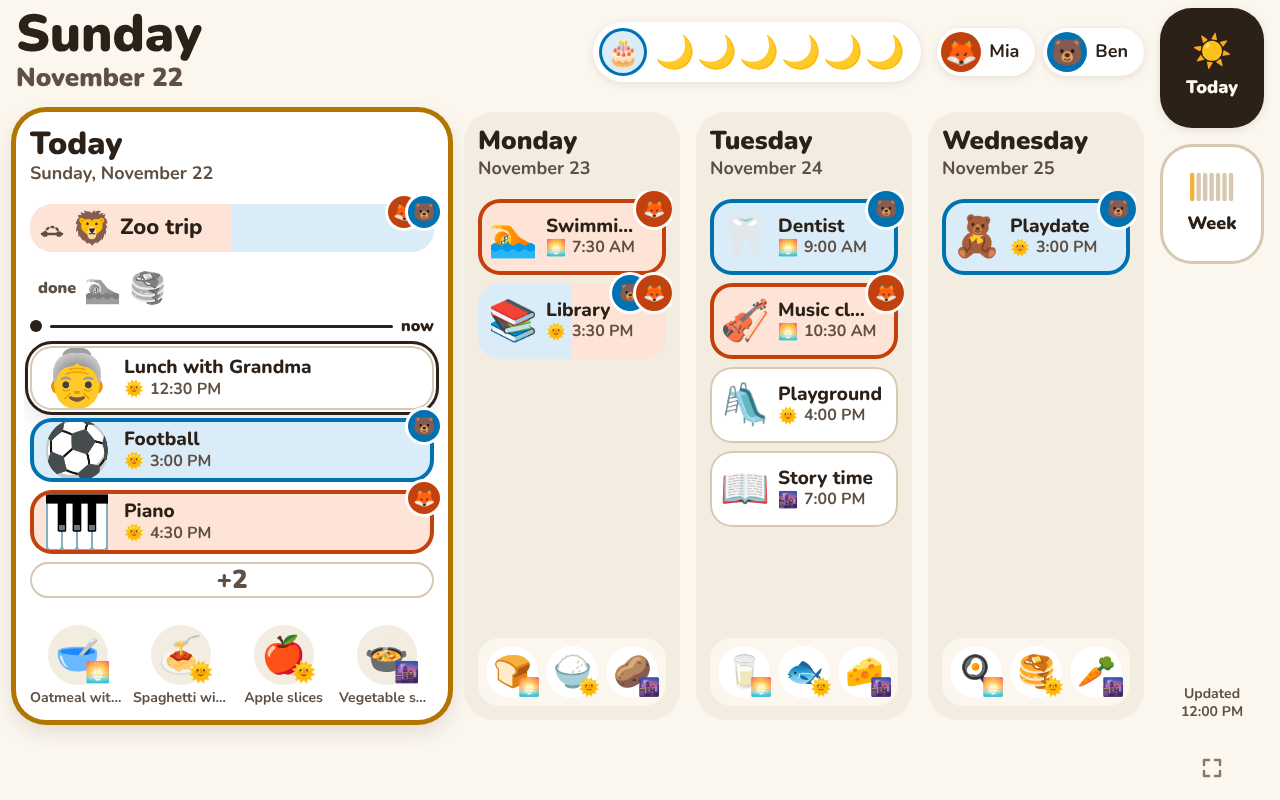
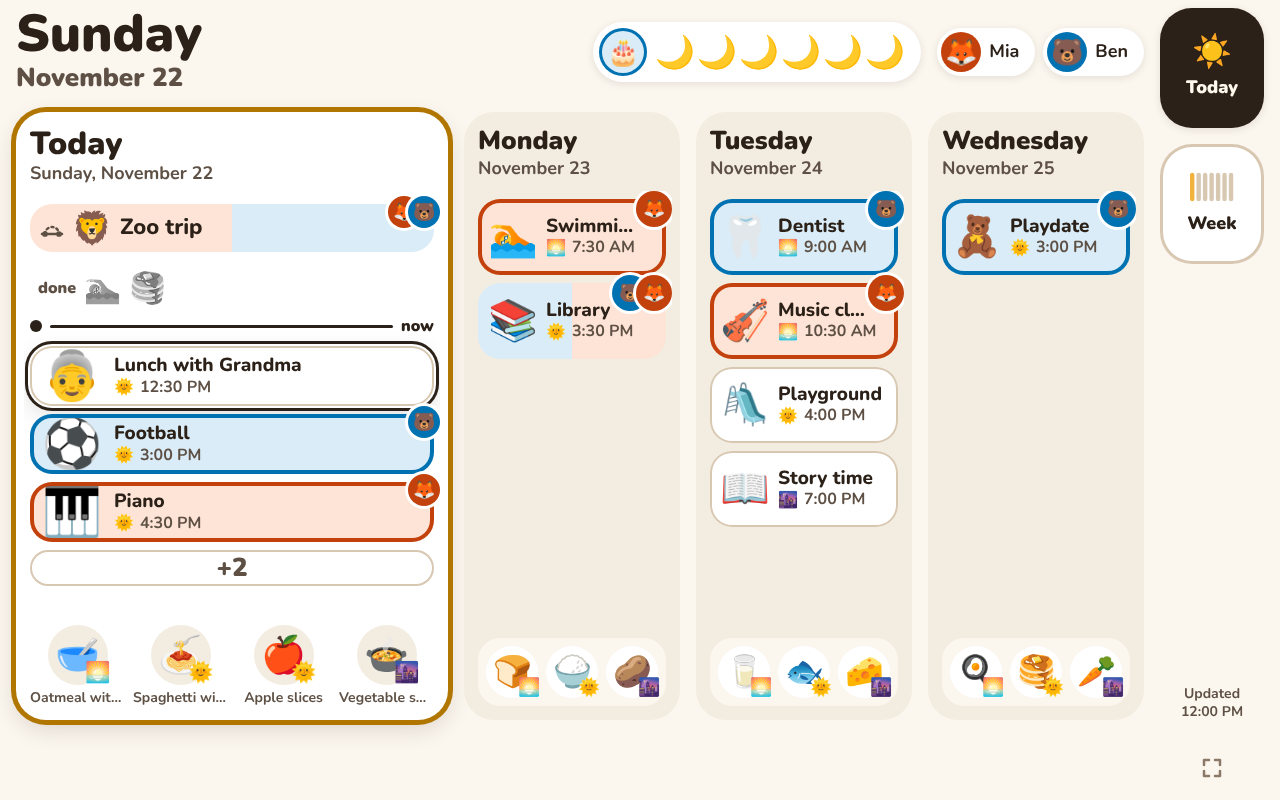
fix(web): give dense tiles room for their emoji and update board docs
Addresses the M5b milestone review: dense overview tiles are 3.75rem with
~3rem emoji so the glyph clears the child edge; ARCHITECTURE.md and
ADR-0009 describe the four-day overview, states and night dimming.

Changed region(s): [[0.0, 0.4375, 0.3438, 0.75]]

diff --git a/apps/web/src/components/EventTile.test.tsx b/apps/web/src/components/EventTile.test.tsx
@@ -228,8 +228,9 @@ describe("EventTile", () => {
     );
   });
 
-  it("keeps today's emoji at 3.5rem in the large and the dense size", () => {
+  it("keeps today's emoji at 3.5rem (large) and 3rem (dense)", () => {
     for (const size of ["large", "dense"] as const) {
+      const emojiClass = size === "large" ? "text-[3.5rem]" : "text-[3rem]";
       const { unmount } = render(
         <EventTile
           event={eventFixture()}
@@ -238,7 +239,7 @@ describe("EventTile", () => {
           size={size}
         />,
       );
-      expect(screen.getByText("🏊")).toHaveClass("text-[3.5rem]");
+      expect(screen.getByText("🏊")).toHaveClass(emojiClass);
       expect(tile()).toHaveAttribute("data-size", size);
       unmount();
     }
@@ -251,10 +252,10 @@ describe("EventTile", () => {
       );
     expect(TILE_HEIGHT_REM.large).toBe(token("--spacing-tile"));
     expect(TILE_HEIGHT_REM.compact).toBe(token("--spacing-tile-compact"));
-    // Dense sizes are shorter, but still hold the 3.5rem emoji line box (today) inside
+    // Dense sizes are shorter, but still hold the 3rem emoji line box (today) inside
     // the 4px edge on both sides (0.25rem each at the 16px baseline).
     expect(TILE_HEIGHT_REM.dense).toBeLessThan(TILE_HEIGHT_REM.large);
-    expect(TILE_HEIGHT_REM.dense).toBeGreaterThanOrEqual(3.5 + 2 * 0.25);
+    expect(TILE_HEIGHT_REM.dense).toBeGreaterThanOrEqual(3 + 2 * 0.25);
     expect(TILE_HEIGHT_REM["compact-dense"]).toBeLessThan(
       TILE_HEIGHT_REM.compact,
     );

diff --git a/apps/web/e2e/states.spec.ts b/apps/web/e2e/states.spec.ts
@@ -288,6 +288,7 @@ test("dense tiles: the emoji box stays inside the child edge, the edge is drawn 
       tiles.map((tile) => {
         // `after:inset-ring-4`: the child edge is 4px wide.
         const edge = 4;
+        const margin = 2;
         const outer = tile.getBoundingClientRect();
         const glyph = tile.querySelector(".font-emoji");
         const emoji = glyph?.getBoundingClientRect();
@@ -298,6 +299,12 @@ test("dense tiles: the emoji box stays inside the child edge, the edge is drawn 
             emoji.top >= outer.top + edge - 0.5 &&
             emoji.bottom <= outer.bottom - edge + 0.5 &&
             emoji.left >= outer.left + edge - 0.5,
+          // The visible emoji box clears the edge with a margin on every side.
+          clear:
+            emoji !== undefined &&
+            emoji.top >= outer.top + edge + margin &&
+            emoji.bottom <= outer.bottom - edge - margin &&
+            emoji.left >= outer.left + edge + margin,
           overlay: after.position === "absolute" && after.content !== "none",
           // `leading-none`: the emoji's line box is exactly its font size.
           leadingNone:
@@ -310,6 +317,7 @@ test("dense tiles: the emoji box stays inside the child edge, the edge is drawn 
   expect(report.length).toBeGreaterThan(0);
   for (const tile of report) {
     expect(tile.inside).toBe(true);
+    expect(tile.clear).toBe(true);
     expect(tile.overlay).toBe(true);
     expect(tile.leadingNone).toBe(true);
   }

diff --git a/apps/web/e2e/dayDensity.spec.ts b/apps/web/e2e/dayDensity.spec.ts
@@ -123,7 +123,7 @@ for (let count = 1; count <= 12; count += 1) {
     for (const tile of await today.getByRole("article").all()) {
       await expect(tile).toBeInViewport({ ratio: 1 });
     }
-    // Today's emoji stay at least 3.5rem, also dense.
+    // Today's emoji: large tiles at least 3.5rem, dense tiles at least 3rem.
     const sizes = await today
       .getByTestId("column-events")
       .getByTestId("event-tile")
@@ -131,15 +131,18 @@ for (let count = 1; count <= 12; count += 1) {
         const rem = parseFloat(
           getComputedStyle(document.documentElement).fontSize,
         );
-        return tiles.map(
-          (tile) =>
+        return tiles.map((tile) => ({
+          dense: tile.getAttribute("data-size") === "dense",
+          rem:
             parseFloat(
               getComputedStyle(tile.querySelector(".font-emoji") as Element)
                 .fontSize,
             ) / rem,
-        );
+        }));
       });
-    for (const size of sizes) expect(size).toBeGreaterThanOrEqual(3.5 - 0.01);
+    for (const size of sizes) {
+      expect(size.rem).toBeGreaterThanOrEqual((size.dense ? 3 : 3.5) - 0.01);
+    }
     // Every plate of every column is on screen.
     for (const plate of await page
       .getByTestId("meal-plates")

diff --git a/apps/web/src/components/EventTile.tsx b/apps/web/src/components/EventTile.tsx
@@ -22,14 +22,14 @@ export type TileSize =
 /** Tile heights in rem; `large` and `compact` are `--spacing-tile(-compact)`. */
 export const TILE_HEIGHT_REM: Record<TileSize, number> = {
   large: 5,
-  dense: 4,
+  dense: 3.75,
   compact: 4.75,
   "compact-dense": 3.75,
   week: 5.75,
   "week-dense": 4.5,
 };
 
-// Full class names so Tailwind can see them. Today's emoji stay >= 3.5rem in both sizes.
+// Full class names so Tailwind can see them. Today's large emoji stay >= 3.5rem, dense ones are 3rem.
 const SIZES: Record<
   TileSize,
   {
@@ -51,10 +51,10 @@ const SIZES: Record<
     stacked: false,
   },
   dense: {
-    // 4rem leaves exactly the 3.5rem emoji line box (leading-none) inside the 4px edge;
-    // the glyph's slightly taller ink stays below the edge overlay (see `statusClasses`).
-    tile: "h-16 gap-3 ps-3 pe-4",
-    emoji: "text-[3.5rem]",
+    // 3.75rem holds the 3rem emoji line box (leading-none) with 0.25rem to spare inside
+    // the 4px edge; the glyph's slightly taller ink stays below the edge overlay.
+    tile: "h-15 gap-3 ps-3 pe-4",
+    emoji: "text-[3rem]",
     title: "text-tile-compact",
     badge: "size-8",
     badgeText: "text-body",

diff --git a/apps/web/e2e/day.spec.ts b/apps/web/e2e/day.spec.ts
@@ -106,22 +106,25 @@ test.describe("overview (main screen)", () => {
       expect(other.bg).toBe(await tokenColor(page, "--color-surface-sunken"));
     }
 
-    // Today's emoji are at least 3.5rem.
+    // Today's emoji: large tiles at least 3.5rem, dense tiles at least 3rem.
     const emojiSizes = await today
       .getByTestId("column-events")
       .getByTestId("event-tile")
       .evaluateAll((tiles) =>
-        tiles.map((tile) =>
-          parseFloat(
+        tiles.map((tile) => ({
+          dense: tile.getAttribute("data-size") === "dense",
+          px: parseFloat(
             getComputedStyle(tile.querySelector(".font-emoji") as Element)
               .fontSize,
           ),
-        ),
+        })),
       );
     const rem = await px(page, "1rem");
     expect(emojiSizes.length).toBeGreaterThan(0);
     for (const size of emojiSizes) {
-      expect(size).toBeGreaterThanOrEqual(3.5 * rem - 0.5);
+      expect(size.px).toBeGreaterThanOrEqual(
+        (size.dense ? 3 : 3.5) * rem - 0.5,
+      );
     }
 
     // Every timed event is shown, folded into the named strip or summed up: none lost.

diff --git a/docs/ARCHITECTURE.md b/docs/ARCHITECTURE.md
@@ -30,7 +30,7 @@ flowchart LR
   subgraph Tablet["Tablet (Fully Kiosk / installed PWA)"]
     SW["Service worker<br/>(app shell precache)"]
     Q["TanStack Query<br/>+ persisted cache (localStorage)"]
-    V["Day view / Week view<br/>night mode, wake lock,<br/>burn-in shift"]
+    V["Four-day overview / Week view<br/>night mode, wake lock,<br/>burn-in shift"]
   end
 
   K -- HTTPS --> F
@@ -230,6 +230,9 @@ over `--duration-slow` (variables do not animate on their own); under
 forces night/day for testing; it is read once at startup and deliberately **not**
 persisted, neither as a parameter nor as the remembered theme (a forgotten test link must
 not pin a kiosk after the next clean reload).
+`<Emoji>` dims every emoji at night itself (`night:brightness-75 night:saturate-80`, the
+design hand-off's `brightness(0.75) saturate(0.8)`), so no caller handles it; a caller's
+`grayscale` (past events) composes with it.
 `<meta name="theme-color">` is updated at runtime to `--color-surface` in night mode and
 restored to the build-time value (brand accent) by day. The manifest `theme_color` stays
 static, because a manifest cannot change with the time of day; it only applies at
@@ -346,42 +349,97 @@ is refetched regardless of `staleTime` and never persisted (the persister's per-
 persisted cache to be restored before it creates the real query, so a reload on a later
 day (offline) is seeded from the restored agenda.
 
-### Day view (T-17)
+### Overview: day model, columns and states (T-17, T-30b)
 
 `apps/web/src/day/buildDayModel.ts` (pure, `buildDayModel(agenda, config, date, now)`)
-decides what belongs to a date (a date key in the config zone) and where it goes; every
-instant is read in the config zone, never the device zone. **Placement rules:**
+decides what belongs to a date (a date key in the config zone) and in what order; every
+instant is read in the config zone, never the device zone. `buildOverviewModel` calls it
+for today plus three days and places the days into the **4 columns** of the overview
+(today `2fr`, the others `1fr`), so overview, week and countdown agree on what belongs to
+a day. **Placement rules:**
 
-* **All-day events** (also multi-day ones) covering the date go to the top row, in feed
-  order. `end` is exclusive; a zero-length all-day event counts for its start day.
+* **All-day events** (also multi-day ones) covering the date go to the day's all-day
+  banner, in feed order. `end` is exclusive; a zero-length all-day event counts for its
+  start day.
 * **Timed events** belong to every date from the date of their start to the date of
-  their last instant (`end − 1 ms`, so an event ending at midnight does not spill into the
-  next day; a zero-length event stays on its start day).
-* **Band** by start time (`bandOf`, wall clock of the zone; a boundary belongs to the later
-  band): `morning` from `morningStart`, `midday` from `middayStart`, `evening` from
-  `eveningStart`. Before `morningStart` (`night`) the event goes to the morning band (the
-  board has no night band). An event that started on an earlier day (multi-day,
-  crossing midnight) is in the morning band too, with a "continues" hint instead of its
-  original start time. Inside a band: by start, ties by title; above 4 events a band
-  lists them in two columns.
+  their last instant (`end - 1 ms`, so an event ending at midnight does not spill into the
+  next day; a zero-length event stays on its start day). They form one list per column in
+  time order (ties by title); an event that started on an earlier day comes first with a
+  "continues" hint instead of its start time. There are no bands or band headings. Each
+  event carries `timeOfDay` (`bandOf`, wall clock of the zone; a boundary belongs to the
+  later band; before `morningStart` it counts as morning), which only picks the small
+  morning / midday / evening symbol next to the time.
 * **Status** only on today: an event is `past` once its end has passed (zero-length: after
   its start), `current` while running, else `upcoming`; all-day events are always
-  `upcoming`. The band containing `now` is `current`, earlier bands `past`; before
-  `morningStart` nothing is current or past. Past items recede via surface/text tokens
-  (not opacity, WCAG AA).
+  `upcoming`. The model also gives today's `nowIndex` (events already started), `current`
+  and `next` (first event not yet started). Past items recede via surface/text tokens (not
+  opacity, WCAG AA).
 * **Meals** of the date, ordered breakfast, lunch, dinner, unspecified.
 
-**States:** `DayLoading` (skeleton with the view's layout) until config and agenda are
-known; `DayEmpty` ("nothing planned" illustration) inside the board; `DayError` (child-calm
-emoji + sentence, parent-readable reason: `failed`, `offline`, `unauthorized`) only when
-there is no data at all. With data, offline or stale, the board stays and only the
-`DiscreetStatusBanner` in the bottom strip reports it (T-22). **Stale-banner delay:** the
-banner shows `stale` only after it has lasted **5 s** (`STALE_BANNER_DELAY_MS`,
-`useSettled`), because online every midnight is briefly `stale` (the new day is seeded from
-the cache until its fetch lands) and that must not flash on a wall display. `offline`,
-`error` and `unauthorized` show at once. E2E (`e2e/offline.spec.ts`) covers the offline
-reload through the service worker, `stale: true`, 502 with and without data, reconnect,
-offline across midnight and the 401 wipe, with the device in `America/Los_Angeles`.
+**Column layout (space-based, nothing scrolls).** `useContentHeight` (a `ResizeObserver`
+on the `flex-1 min-h-0` event list, first value measured in a layout effect before paint)
+gives the list height and the root font size, so the height is handled in rem. `fitColumn`
+chooses the tile size (`large`/`compact` while every event fits and there are fewer than
+`DENSE_FROM` = 6, else `dense`/`compact-dense`) and the largest `columnLayout` capacity
+whose real height fits: tiles (`TILE_HEIGHT_REM`), the smaller strip and "+N" rows
+(`SUMMARY_ROW_REM`), gaps and the room of the now line. `columnLayout` folds **past events
+first** into the "vorbei" strip (up to 8 icons, then "+N"), only then sums up the latest
+upcoming events in a trailing "+N" tile. A **current event is never hidden or folded**;
+`MIN_SLOTS` (3: one tile, strip and "+N") is the smallest capacity, so a tiny column may
+overflow rather than hide. Strip and "+N" name all their titles for assistive tech, so
+nothing is lost silently.
+
+**Today's markers.** `NowLine` is a named separator between started and upcoming events and
+moves only from tile to tile, never per minute. The current tile keeps its accent ring;
+the next upcoming one gets a ring in `--color-now` (`data-next`).
+
+**All-day banner.** `AllDayBanner` shows at most two entries as flat strips with the
+all-day arc icon in the children's tint, then a named "+N" for the rest.
+
+**Meal plates.** `MealPlates` sits at the bottom of every column: breakfast, lunch, dinner
+in fixed places (an empty place for a missing meal), more meals of a slot side by side,
+`unspecified` meals last. Each emoji is an image named "Lunch: Spaghetti".
+
+**Child tint.** `resolveTileTint(children)`: no child neutral, one child its tint plus a
+4px edge, two a hard-stop split gradient, three or more neutral with up to three badges and
+"+N". A `child-N` token maps to `--color-child-N-tint`; any other colour is mixed 20 % into
+the surface, but only after `isCssColor` accepted it (strict grammar, `CSS.supports` where
+available; CSS keywords, `var()`, `url()` are refused). Unusable config text falls back to
+the neutral fill. The value is only used as a style value, never in class names. Dense
+tiles (today) carry a 3rem emoji in a 3.75rem tile; large tiles keep at least 3.5rem.
+
+**States:**
+
+* **Loading:** `DayLoading` is a static skeleton with the view's layout: header, the four
+  columns (today raised) and the rail in surface tokens, "Der Tag wird geholt ..." in the
+  bottom strip. No spinner, no animation.
+* **Empty:** `DayEmpty` ("nothing planned" illustration) inside today's column; the meals
+  stay visible.
+* **Error:** `ErrorCard` (full screen, 🧸, a calm line for children, one line for parents,
+  a "reload now" button of at least 64px) only when there is no data at all. It shows a
+  short stable `KB-*` code from `components/errorCode.ts` (`KB-NET`, `KB-TIME`, `KB-401`,
+  `KB-502`, `KB-OFF`, `KB-UI`, ...; identifiers, never an error message, URL or body). No
+  red surface and no fixed retry seconds: the data layer's backoff decides. The raw error
+  is only logged, never shown. `AppErrorBoundary` uses the same card for render errors.
+* **401:** the calm variant (`unauthorized`): raised surface with an edge, "open the link
+  again", no retry button, because a parent has to act; the 401 wipe already forgot the
+  token.
+* **Offline / stale with data:** the board stays and only the `DiscreetStatusBanner` pill
+  in the bottom strip reports it ("Offline · as of 14:02", "Maybe not current · as of
+  14:02", without the time where unknown; calm notice colours, polite `status`). **Stale
+  delay:** `stale` shows only after it has lasted **5 s** (`STALE_BANNER_DELAY_MS`,
+  `useSettled`), because online every midnight is briefly `stale` (the new day is seeded
+  from the cache until its fetch lands). `offline`, `error` and `unauthorized` show at
+  once.
+* **`retryNow`** (`data/retryNow.ts`, `useRetryNow`): refetches every active KidBoard query
+  (config and the mounted agenda) at once with `cancelRefetch`, so a running fetch or a
+  pending automatic retry is replaced by a fresh attempt. It does not reject; failures
+  surface through the queries as usual. The disabled agenda placeholder does not fetch
+  until the config is there.
+
+E2E (`e2e/offline.spec.ts`) covers the offline reload through the service worker,
+`stale: true`, 502 with and without data, reconnect, offline across midnight and the 401
+wipe, with the device in `America/Los_Angeles`.
 
 ### Board: four-day overview & week view (T-18, T-30b)
 
@@ -411,14 +469,25 @@ titles for assistive tech, nothing is hidden silently, nothing scrolls).
 
 `apps/web/src/week/buildWeekModel.ts` (pure): 7 columns from today in the config zone
 (`addCalendarDays`), each built with `buildDayModel(agenda, config, date, now)`, so day
-and week agree on what belongs to a day. Meals are part of the columns (no extra
-screen, one glance). **Most important events** (they get the 3 icon slots, the rest
+and week agree on what belongs to a day. Meals are part of the columns (`MealRows`, no
+extra screen, one glance). **Order of the events** (the first ones get tiles, the rest
 becomes "+N"): 0. events already over today rank **last** (the column answers "what is
 still to come?"; ranking instead of dimming keeps WCAG AA contrast), 1. `countdown`
 events, 2. all-day events, 3. timed events by start (a multi-day event continuing from
-an earlier day counts as the earliest), ties by title. An icon of a child's event sits
-in a ring in the (first) child's colour with a small avatar per child (colour is never
-the only cue); events without a child have no ring.
+an earlier day counts as the earliest), ties by title.
+**Space-based "+N":** like the overview, the week measures its columns (`useContentHeight`)
+and `fitWeekColumn` decides: `week` tiles while everything fits and there are fewer than 6
+events, else `week-dense`, with as many tiles as fit and a trailing "+N" row only when
+tiles do not fit (never a fixed count). The "+N" row carries the hidden titles as its
+accessible label. Week tiles are the overview's `EventTile` in a stacked form (emoji above
+time, no visible title; the title is in the accessible name): tinted by the child
+(`resolveTileTint`) with edge and badges per child, so colour is never the only cue;
+events without a child are neutral.
+**Countdown day:** the day the countdown waits for wears the awaited event's child tint
+and edge, and every earlier day shows one 🌙 in its header (the night still to sleep).
+`MealRows` is a three-row list (breakfast, lunch, dinner, each led by its time-of-day
+symbol; an empty row for a missing meal; `unspecified` meals in an extra row only when
+present).
 **One meaning per symbol:** 🌙 only counts sleeps (countdown), ☀ is the "Today" button;
 tiles and meal plates use 🌅 / 🌞 / 🌆 for the time of day, all-day events an arc icon.
 Weekend = Saturday/Sunday of the date key (zone-independent calendar math).

diff --git a/docs/PROGRESS.md b/docs/PROGRESS.md
@@ -59,6 +59,7 @@ One row per completed task. Escalations to Opus are logged with their reason.
 
 | Date | Milestone | Reviewer | Verdict | Notes |
 |---|---|---|---|---|
+| 2026-11-22 | M5b | Opus 5.5 (reviewer-opus) | PASS after fixes (round 2) | Blocking: missing T-30b/T-32 escalation rows, ARCHITECTURE/ADR-0009 still described bands. Decision: dense tiles 3.75rem with ~3rem emoji (plan change). Follow-ups in T-27/T-27a. Context7 unreachable (installed sources checked). |
 | 2026-11-22 | M5 | Opus 5.5 (reviewer-opus) | PASS after fixes | Blocking: wake lock dropped during error fallback, fullscreen glyph contrast, missing T-23 escalation row; plus pre-existing day-band clipping. All fixed (2 re-review rounds). Context7 unreachable for the first review (installed sources checked). Follow-ups in T-25/T-27. |
 | 2026-11-22 | M4 | Opus 5.5 (reviewer-opus) | PASS after docs fix | Only finding: missing T-19 escalation row (added). CI + CodeQL green at 55c3587. Follow-ups folded into T-20/21/22/23/24. |
 | 2026-11-22 | M3 | Opus 5.5 (reviewer-opus) | PASS (round 2) | Round 1: offline-no-data text claimed a saved plan (fixed), countdown needs 31 days vs `/api/agenda` cap 14 (plan change in T-19), escalation rows missing (added). Context7 unreachable for reviewers. Follow-ups folded into T-18/20/21/23/28. |

diff --git a/docs/adr/0009-emoji-rendering.md b/docs/adr/0009-emoji-rendering.md
@@ -19,6 +19,8 @@ MVP renders native emoji through one `<Emoji>` component (font stack
 The component has two modes. With a non-empty `label` the emoji is an image for
 assistive tech (`role="img"`, `aria-label`). Without a label (or a blank one) it is
 **decorative**: `aria-hidden="true"`, no role, so screen readers skip it. Use the
-decorative mode whenever visible text next to it already says the same (meal cards, band
-headings, the child legend's avatars next to the names, the countdown visuals inside its
-labelled region), so nothing is announced twice.
+decorative mode whenever visible text next to it already says the same (a tile's emoji next to its title, the child legend's avatars next to the names, the
+countdown visuals inside its labelled region), so nothing is announced twice.
+
+Night dimming also lives inside the `<Emoji>` seam (`night:brightness-75
+night:saturate-80`), so callers never dim emoji themselves.
